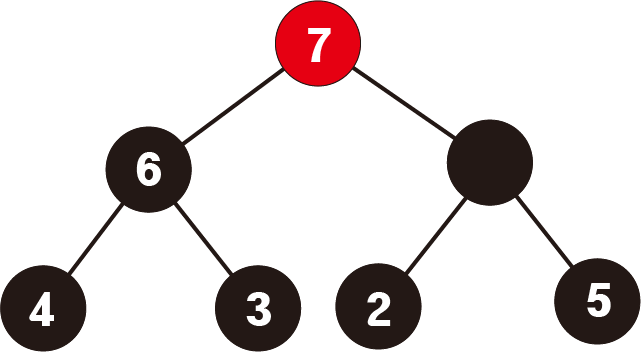
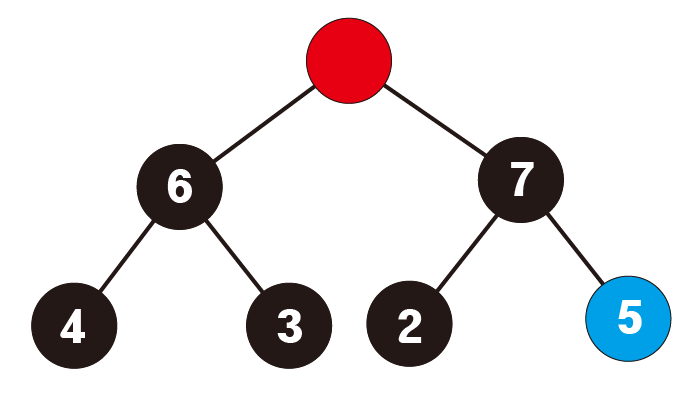
heap update

Changed region(s): [[0.0, 0.0, 1.0, 1.0]]

diff --git a/python_algorithm/tree/힙트리.md b/python_algorithm/tree/힙트리.md
@@ -91,30 +91,43 @@ class HeapTree:
 
 위 트리에서 데이터를 삭제시킬 때는 루트노드인 8번 노드를 삭제한다.
 
-그 후 왼쪽자식노드와 오른쪽 자식노드를 비교하여 우선순위가 높은 노드를 올린다.
+<img src = "../image/tree/heap/delete/4.png" width="40%" height="40%"/>
 
-<img src = "../image/tree/heap/delete/3.png" width="40%" height="40%"/>
+그 후, 힙트리에서 가장 마지막에 있는 노드를 루트노드로 올린다.
 
-다시 그 자식노드들 중 우선순위가 높은 노드를 올린다. 이 과정을 리프노드까지 반복한다.
+<img src = "../image/tree/heap/delete/7.png" width="40%" height="40%"/>
 
-<img src = "../image/tree/heap/delete/5.png" width="40%" height="40%"/>
+루트노드에서부터 자신과 자식노드들과의 우선순위를 비교하며 우선순위가 높은 노드가 부모노드가 되도록 재귀적으로 반복한다.
 
 ```python
     def delete(self):
         result = self.tree[1]
-        self.deleteNode(1)
         self.size -= 1
+        pointer = 1
+        self.tree[1] = self.tree[self.size]
+        while pointer * 2 < self.size:
+            if pointer * 2 + 1 < self.size:
+                if self.tree[pointer] > self.tree[pointer * 2] and self.tree[pointer] > self.tree[pointer * 2 + 1]:
+                    break
+                elif self.tree[pointer * 2] > self.tree[pointer * 2 + 1]:
+                    temp = self.tree[pointer]
+                    self.tree[pointer] = self.tree[pointer * 2]
+                    self.tree[pointer * 2] = temp
+                    pointer = pointer * 2
+                else:
+                    temp = self.tree[pointer]
+                    self.tree[pointer] = self.tree[pointer * 2 + 1]
+                    self.tree[pointer * 2 + 1] = temp
+                    pointer = pointer * 2 + 1
+            else:
+                if self.tree[pointer] > self.tree[pointer * 2]:
+                    break
+                else:
+                    temp = self.tree[pointer]
+                    self.tree[pointer] = self.tree[pointer * 2]
+                    self.tree[pointer * 2] = temp
+                    pointer = pointer * 2
         return result
-    
-    def deleteNode(self, pointer):
-        if self.size < pointer * 2:
-            return
-        if self.tree[pointer * 2] > self.tree[pointer * 2 + 1]:
-            self.tree[pointer] = self.tree[pointer * 2]
-            self.deleteNode(pointer * 2)
-        else:
-            self.tree[pointer] = self.tree[pointer * 2 + 1]
-            self.deleteNode(pointer * 2 + 1)
 ```
 
 ### 모듈

diff --git a/python_algorithm/Readme.md b/python_algorithm/Readme.md
@@ -4,9 +4,18 @@
 
 ### 2. 자료구조
 - [링크드리스트(Linked List)](./data_structure/링크드리스트.md)
+    - [1406 에디터](https://www.acmicpc.net/problem/1406)
+    - [5397 키로거](https://www.acmicpc.net/problem/5397)
 - [스택(Stack)](./data_structure/스택.md)
+    - [10828 스택](https://www.acmicpc.net/problem/10828)
+    - [9012 괄호](https://www.acmicpc.net/problem/9012)
+    - [1874 스택수열](https://www.acmicpc.net/problem/1874)
 - [큐(Queue)](./data_structure/큐.md)
+    - [10845 스택](https://www.acmicpc.net/problem/10845)
+    - [2164 카드2](https://www.acmicpc.net/problem/2164)
+    - [11866 요세푸스 문제0](https://www.acmicpc.net/problem/11866)
 - [덱(Deque)](./data_structure/덱.md)
+    - [11866 요세푸스 문제0](https://www.acmicpc.net/problem/10866)
 
 ### 3. 여러가지 알고리즘 기법
 - [브루트포스(Brute force search)](./basic_algorithm/brute_force.md)

diff --git a/python_algorithm/data_structure/스택.md b/python_algorithm/data_structure/스택.md
@@ -6,15 +6,21 @@
 
 스택에 데이터를 집어넣는 행위를 push, 빼는 행위를 pop이라고 한다.
 
-<img src = "../image/data_structure/stack/1.png" width="40%" height="40%"/>
+<img src = "../image/data_structure/stack/1.png" width="40%" height="40%"/> 
+
+스택 생성
 
 <img src = "../image/data_structure/stack/2.png" width="40%" height="40%"/>
 
+push 4
+
 <img src = "../image/data_structure/stack/3.png" width="40%" height="40%"/>
+
+push 3
 
 <img src = "../image/data_structure/stack/4.png" width="40%" height="40%"/>
 
-위와 같이 4번 3번 순서로 push를 했지만 pop을 하면 3번이 먼저 나오는 것을 확인할 수 있다.
+pop : 3이 스택에서 빠져 나왔다. 가장 마지막에 push 된 값이 나오기 때문이다.
 
 ## 기능 및 구현
 
